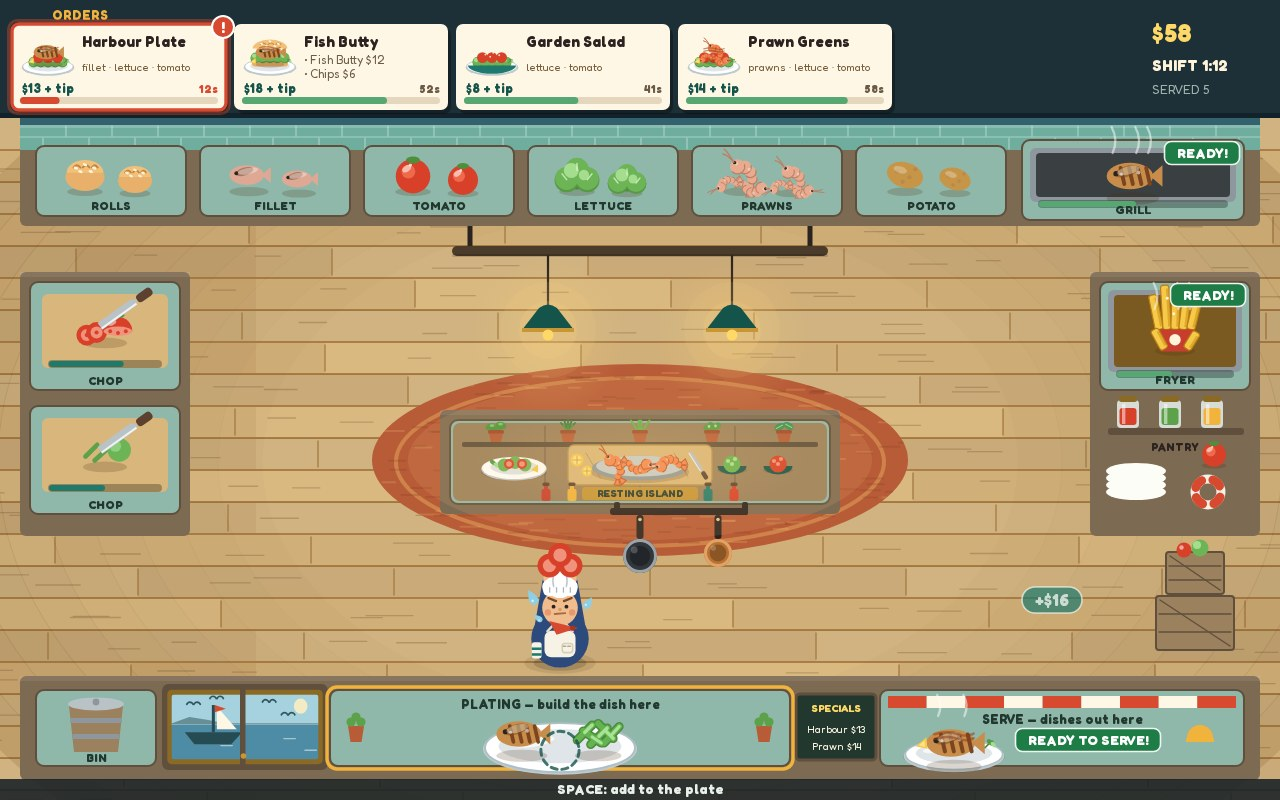
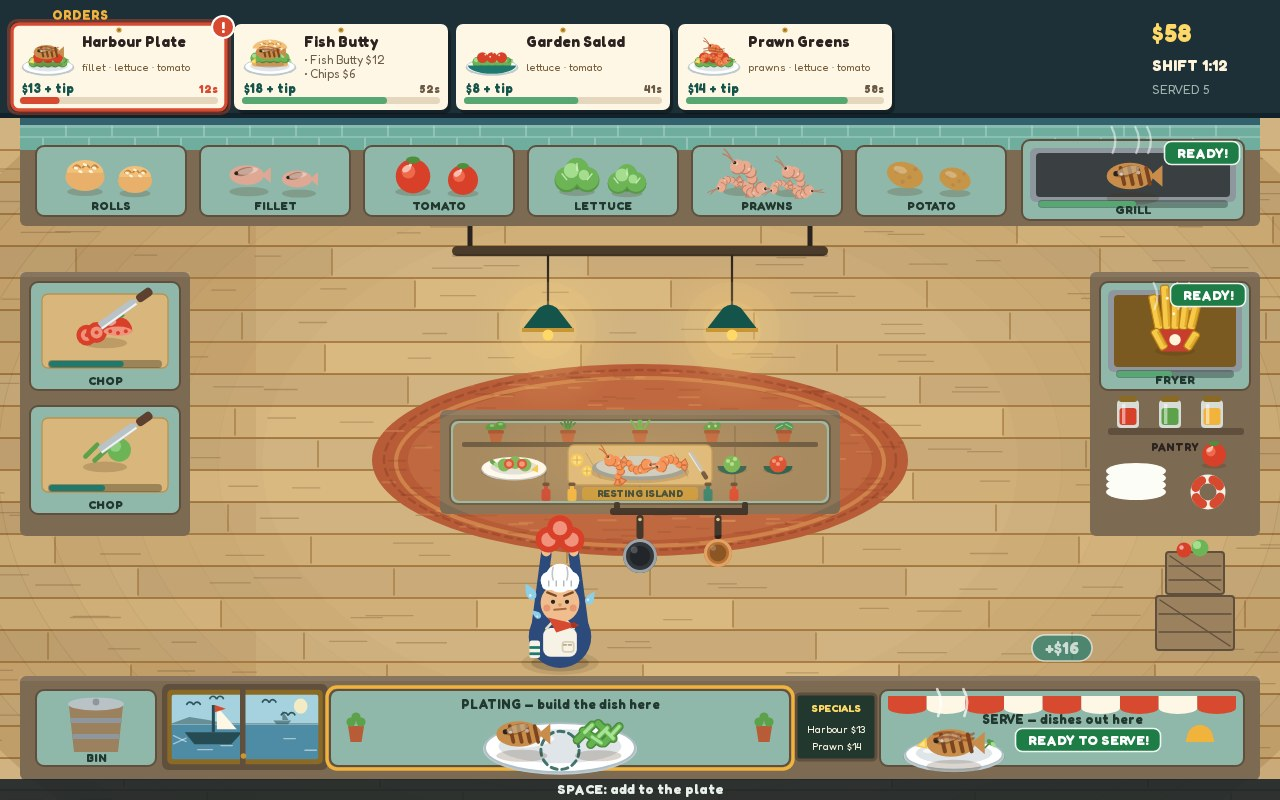
V18: raised carry, hanging sign, honest machine clocks
Fixes (AUDIT-V18): carried ingredients ride at -74 with the arms
risen to meet them, dishes keep their tray anchors (W1); the title
band hangs as an inset brass-bordered sign (W2); the end work strip
aligns with its panel stack (W3); pass steam wears its own stronger
literal (W4); the cover popup rests over the serve window (W5);
the chef steps up to 1.25 scale (W6); fryer batons warm at
half-cook (W7); machine bars redden in the burn window's final
stretch - bar is the clock, badge is the state (W8); chop boards
carry the prep board's edge (W9); the spread's dashed ring is
drawn under the food (W10).
Beauty: ticket pins (B3), awning scallops (B4), rug stitch (B5),
boat wake (B1), a far boat on the horizon (B2).
Battery 297/297, probe 14/14, dossier byte-identical x2.

Changed region(s): [[0.4062, 0.6562, 0.4688, 0.8438], [0.7812, 0.7188, 0.875, 0.8438], [0.6875, 0.875, 0.9688, 0.9062]]

diff --git a/game/src/render.js b/game/src/render.js
@@ -503,8 +503,10 @@ function drawPlateSpread(ctx, items, x, y, s) {
   const slots = items.length >= 3 ? [[-29, 1], [0, -6], [29, 1]]
     : items.length === 2 ? [[-28, 0], [28, 0]]
     : [[-16, 0]];
-  items.forEach((item, i) => drawItem(ctx, item, slots[i][0], slots[i][1], 44));
   if (items.length < 3) {
+    // The dashed ring marks the empty place, so it is drawn on the
+    // plate, under the food: drawn after the items, its arc struck
+    // through the fillet's tail on the cover (AUDIT-V18 W10).
     const gap = items.length === 2 ? [0, 12] : [26, 1];
     ctx.strokeStyle = 'rgba(20,84,75,0.8)';
     ctx.lineWidth = 2.2;
@@ -512,6 +514,7 @@ function drawPlateSpread(ctx, items, x, y, s) {
     ctx.beginPath(); ctx.arc(gap[0], gap[1], 14, 0, Math.PI * 2); ctx.stroke();
     ctx.setLineDash([]);
   }
+  items.forEach((item, i) => drawItem(ctx, item, slots[i][0], slots[i][1], 44));
   ctx.restore();
 }
 
@@ -663,7 +666,7 @@ function drawMidChop(ctx, item, chops, x, y, s) {
  * a deep, saturated oil bath, so the fryer at work reads as frying, not as a
  * letter — and not, at the sheet's size, as a row of pale candles.
  */
-function drawFryerCooking(ctx, cx, cy) {
+function drawFryerCooking(ctx, cx, cy, warm) {
   const oilY = cy + 13;
   // The batons, back row first: varied heights and leans, hash-placed so the
   // arrangement never moves between frames.
@@ -683,7 +686,14 @@ function drawFryerCooking(ctx, cx, cy) {
     ctx.restore();
   };
   const sticks = [[-40, 30, -0.16], [-27, 38, -0.06], [-13, 33, 0.08], [1, 41, -0.02], [15, 35, 0.12], [28, 39, 0.05], [41, 29, 0.17]];
-  for (const [ox, h, rot] of sticks) baton(ox, h, rot, '#f0cd78', '#d9ae4e', '#bd9440');
+  // Half-cooked, the batons warm one step toward the finished chips'
+  // gold — the food itself says time is passing, not only the bar
+  // under it (AUDIT-V18 W7). The finished carton is still a step
+  // beyond: this is a midpoint, not the finish.
+  for (const [ox, h, rot] of sticks) {
+    if (warm) baton(ox, h, rot, '#f3c95f', '#dbab42', '#b98f36');
+    else baton(ox, h, rot, '#f0cd78', '#d9ae4e', '#bd9440');
+  }
   // The oil itself, drawn over the batons' feet: a deep, hot gold bath with a
   // brighter, broken surface — dark enough, against the fryer's panel, that
   // the pale batons read as food in oil and not as sticks in a void.
@@ -750,13 +760,20 @@ function drawMachine(ctx, state, station, machine) {
     // In the fryer, raw cut potato gets its own cooking scene (batons in
     // bubbling oil); on the grill, prawns get their spaced row; everywhere
     // else the item itself is the picture.
-    if (kind === 'fryer' && machine.t < cookAt) drawFryerCooking(ctx, cx, cy);
+    if (kind === 'fryer' && machine.t < cookAt) drawFryerCooking(ctx, cx, cy, machine.t >= cookAt / 2);
     else if (kind === 'grill' && shown.startsWith('prawns')) drawGrillPrawns(ctx, shown, cx, cy);
     // The grill's single item steps up a size: at 54 its body spanned
     // ~51 px of a 174 px-wide dark panel and read as a small dark mark
     // at the cover's size; the prawns already span the grill in a row.
     else drawItem(ctx, shown, cx, cy - 4, kind === 'grill' ? 62 : 52);
-    const color = machine.t >= burnAt ? COLORS.red : machine.t >= cookAt ? COLORS.timerGood : COLORS.mustard;
+    // The bar is the clock, the badge below is the food's state: the bar
+    // fills toward the burn point, and its final stretch turns red —
+    // "nearly out of time", the same language the tickets' draining
+    // bars speak — while the badge stays READY! green until BURNT!
+    // replaces it. At its old colours the bar sat green at 94% of the
+    // burn window, 0.6 s from burnt (AUDIT-V18 W8).
+    const color = machine.t >= burnAt || machine.t / burnAt >= 0.85 ? COLORS.red
+      : machine.t >= cookAt ? COLORS.timerGood : COLORS.mustard;
     drawProgress(ctx, station.x + 16, station.y + station.h - 20, station.w - 32, machine.t / burnAt, color);
     // Steam wisps, swaying with the clock so the frame feels alive — three of
     // them, tall enough to read above both machines at contact-sheet size.
@@ -868,6 +885,15 @@ function drawKitchen(ctx, state) {
     ctx.beginPath(); ctx.moveTo(wx, wy); ctx.lineTo(wx + 11 + hash2(i, 41) * 10, wy); ctx.stroke();
   }
   ctx.restore();
+  // The mat's stitched border: a dashed ring just inside the rim, in
+  // the dark weave tone — a mat's edge finished the way the apron's
+  // pocket is stitched (AUDIT-V18 B5). Dashes, dark, at the rim: it
+  // is a stitch line, not a third ring.
+  ctx.strokeStyle = 'rgba(122,52,28,0.35)';
+  ctx.lineWidth = 2.5;
+  ctx.setLineDash([7, 6]);
+  ctx.beginPath(); ctx.ellipse(640, 460, 256, 90, 0, 0, Math.PI * 2); ctx.stroke();
+  ctx.setLineDash([]);
   // Counters.
   for (const solid of SOLIDS) {
     ctx.fillStyle = COLORS.counter;
@@ -952,6 +978,14 @@ function drawKitchen(ctx, state) {
   ctx.strokeStyle = 'rgba(255,255,255,0.4)';
   ctx.lineWidth = 1;
   ctx.beginPath(); ctx.moveTo(179, 724.6); ctx.lineTo(319, 724.6); ctx.stroke();
+  // A second boat, far away on the horizon in the right pane: a low
+  // hull and one small sail in the headland's own tone — the depth's
+  // third layer, traffic on the horizon (AUDIT-V18 B2).
+  ctx.fillStyle = 'rgba(39,75,82,0.55)';
+  ctx.beginPath();
+  ctx.moveTo(276, 721.5); ctx.lineTo(293, 721.5); ctx.lineTo(290, 724.6); ctx.lineTo(279, 724.6);
+  ctx.closePath(); ctx.fill();
+  ctx.beginPath(); ctx.moveTo(284.5, 713); ctx.lineTo(284.5, 721); ctx.lineTo(290.5, 721); ctx.closePath(); ctx.fill();
   ctx.strokeStyle = 'rgba(255,255,255,0.5)';
   ctx.lineWidth = 1.2;
   for (const [wx, wy] of [[196, 734], [226, 743], [286, 737], [306, 747]]) {
@@ -984,6 +1018,15 @@ function drawKitchen(ctx, state) {
   ctx.fillStyle = COLORS.red;
   ctx.beginPath(); ctx.moveTo(220, 712); ctx.lineTo(228, 714.4); ctx.lineTo(220, 716.8); ctx.closePath(); ctx.fill();
   ctx.restore();
+  // The boat's wake: two short strokes fanning from the stern and a
+  // shimmer line under the hull — the harbour's one moving thing,
+  // moving (AUDIT-V18 B1). In window space: the hull's stern sits at
+  // ≈ (192, 738) after its 1.3 growth about (219, 725).
+  ctx.strokeStyle = 'rgba(255,255,255,0.5)';
+  ctx.lineWidth = 1.2;
+  ctx.beginPath(); ctx.moveTo(193, 736.5); ctx.lineTo(181, 741.5); ctx.stroke();
+  ctx.beginPath(); ctx.moveTo(193, 739.5); ctx.lineTo(181, 734.5); ctx.stroke();
+  ctx.beginPath(); ctx.moveTo(204, 746.5); ctx.lineTo(218, 746.5); ctx.stroke();
   // Gulls: three small double-arcs over the water, and one smaller,
   // farther pair toward the sun — the sky has depth like the sea does.
   ctx.strokeStyle = '#33555e';
@@ -1310,6 +1353,13 @@ function drawKitchen(ctx, state) {
       const board = state.boards.find((b) => b.station === station);
       ctx.fillStyle = '#d9b77c';
       rr(ctx, station.x + 12, station.y + 12, station.w - 24, station.h - 34, 6); ctx.fill();
+      // The board's edge, in the island prep board's own stroke: every
+      // other cutting surface in the room carries one, and without it
+      // the pale board read as a sheet of paper laid on the counter
+      // (AUDIT-V18 W9).
+      ctx.strokeStyle = '#b8934f';
+      ctx.lineWidth = 1.3;
+      rr(ctx, station.x + 12, station.y + 12, station.w - 24, station.h - 34, 6); ctx.stroke();
       if (board.item) {
         const need = { tomato: 3, lettuce: 2, potato: 3 }[board.item];
         if (need && board.chops >= need) {
@@ -1383,6 +1433,17 @@ function drawKitchen(ctx, state) {
         ctx.fillStyle = i % 2 ? '#fff7e6' : COLORS.red;
         ctx.fillRect(station.x + 8 + i * ((station.w - 16) / 9), station.y + 6, (station.w - 16) / 9, 12);
       }
+      // A scalloped hem along the awning's bottom edge, one shallow
+      // half-ellipse per stripe in the stripe's own colour — the
+      // harbour-café finish the stripes promised (AUDIT-V18 B4).
+      // Shallow (6 deep) so the hem stays clear of the label's row.
+      for (let i = 0; i < 9; i++) {
+        const sw = (station.w - 16) / 9;
+        ctx.fillStyle = i % 2 ? '#fff7e6' : COLORS.red;
+        ctx.beginPath();
+        ctx.ellipse(station.x + 8 + i * sw + sw / 2, station.y + 18, sw / 2, 6, 0, 0, Math.PI);
+        ctx.fill();
+      }
       text(ctx, 'SERVE — dishes out here', cx, station.y + 30, 13, '#22382e');
       if (state.passDish) {
         // The pass moment, drawn at the plating counter's presence: a finished
@@ -1400,16 +1461,18 @@ function drawKitchen(ctx, state) {
         // Steam over the pass: the machines steam and the sheet's
         // "ready to serve" moment sat cold. Two wisps in the machines'
         // own language rise off the finished dish, swaying with the
-        // clock like theirs do.
-        ctx.strokeStyle = 'rgba(255,255,255,0.5)';
-        ctx.lineWidth = 2.3;
+        // clock like theirs do. At the machines' own strength they
+        // vanished over the serve counter's pale glass, though — the
+        // pass wears a stronger literal of its own (AUDIT-V18 W4).
+        ctx.strokeStyle = 'rgba(255,255,255,0.72)';
+        ctx.lineWidth = 2.6;
         ctx.lineCap = 'round';
         for (const off of [-13, 13]) {
           const sx = station.x + (friesPass ? 58 : 74) + off + Math.sin(state.time * 2.2 + off * 1.7) * 3;
           const sy = station.y + (friesPass ? 30 : 26);
           ctx.beginPath();
           ctx.moveTo(sx, sy);
-          ctx.quadraticCurveTo(sx + 5, sy - 11, sx - 1, sy - 21);
+          ctx.quadraticCurveTo(sx + 6, sy - 15, sx - 1, sy - 27);
           ctx.stroke();
         }
         drawBadge(ctx, station.x + 208, station.y + 50, 'READY TO SERVE!', '#1e7d46');
@@ -1499,9 +1562,12 @@ function drawChef(ctx, state) {
   // cook is its only character — at his old size he read as a token on the
   // floor instead of the person working it. The scale pivots on his feet,
   // so he grows upward from where he stands; nothing mechanical reads it.
+  // V18 steps him up once more (1.15 → 1.25): at the judge's size his
+  // face is ~11 px and the strain read still rests on the red ticket —
+  // presence is the step the detail pass left (AUDIT-V18 W6).
   ctx.save();
   ctx.translate(chef.x, chef.y + 27);
-  ctx.scale(1.15, 1.15);
+  ctx.scale(1.25, 1.25);
   ctx.translate(-chef.x, -(chef.y + 27));
   // The cook's face answers the pressure on the board: brows down, mouth
   // flat, sweat flying — whenever a ticket is dying or the board is full.
@@ -1519,6 +1585,14 @@ function drawChef(ctx, state) {
   // carries — the hands visibly hold it — or resting at his sides. The
   // old bare skin strokes vanished against the floor at judge size,
   // and a carried dish floated over the toque, held by nothing.
+  // A dish rides at tray height, hands under its rim; an ingredient
+  // has no plate under it, so it rides higher — at the old shared
+  // anchor an ingredient's lowest pieces lay inside the toque dome's
+  // span and read as worn on the hat (tomato slices as red discs,
+  // AUDIT-V18 W1) — and the arms and hands rise to meet the ride.
+  const carryDish = !!chef.carry && !!DISHES[chef.carry];
+  const armY = carryDish ? -44 : -60;
+  const handY = carryDish ? -46 : -62;
   ctx.lineCap = 'round';
   for (const side of [-1, 1]) {
     ctx.strokeStyle = '#2c4a7c';
@@ -1526,7 +1600,7 @@ function drawChef(ctx, state) {
     ctx.beginPath();
     if (chef.carry) {
       ctx.moveTo(x + side * 20, y + 8);
-      ctx.lineTo(x + side * 11, y - 44);
+      ctx.lineTo(x + side * 11, y + armY);
     } else {
       ctx.moveTo(x + side * 23, y + 2);
       ctx.lineTo(x + side * 27, y + 15);
@@ -1534,7 +1608,7 @@ function drawChef(ctx, state) {
     ctx.stroke();
     ctx.fillStyle = '#f0bd8f';
     ctx.beginPath();
-    ctx.arc(x + side * (chef.carry ? 11 : 27), y + (chef.carry ? -46 : 17), 3.7, 0, Math.PI * 2);
+    ctx.arc(x + side * (chef.carry ? 11 : 27), y + (chef.carry ? handY : 17), 3.7, 0, Math.PI * 2);
     ctx.fill();
   }
   // Apron body — harbour indigo, a cream apron front with a pocket.
@@ -1679,11 +1753,13 @@ function drawChef(ctx, state) {
   ctx.fillStyle = COLORS.redDark;
   ctx.beginPath(); ctx.arc(x + chef.face * 11, y - 3.3, 2.3, 0, Math.PI * 2); ctx.fill();
   // Whatever the chef carries rides overhead, both hands up — carried food
-  // casts no contact shadow; it is in the air, over his toque.
+  // casts no contact shadow; it is in the air, over his toque. A dish
+  // rides at −62 as a tray; an ingredient rides at −74, clear of the
+  // dome (W1) — the hands above already rose to meet it.
   if (chef.carry) {
     const dish = DISHES[chef.carry];
     if (dish) drawDish(ctx, chef.carry, x, y - 62, 66, false);
-    else drawItem(ctx, chef.carry, x, y - 60, 46, false);
+    else drawItem(ctx, chef.carry, x, y - 74, 46, false);
   }
   ctx.restore();
 }
@@ -1708,6 +1784,14 @@ function drawBoard(ctx, state) {
     rr(ctx, x + 3, y + 4, cardW, h, 7); ctx.fill();
     ctx.fillStyle = COLORS.paper;
     rr(ctx, x, y, cardW, h, 7); ctx.fill();
+    // The pin that holds the ticket: one brass dot through the paper's
+    // top edge — the shadows made the cards pinned paper; this is what
+    // pins them (AUDIT-V18 B3). It sits clear of the icon (x + 10..62)
+    // and the title (from x + 70) alike.
+    ctx.fillStyle = '#c99635';
+    ctx.beginPath(); ctx.arc(x + cardW / 2, y + 6, 2.6, 0, Math.PI * 2); ctx.fill();
+    ctx.fillStyle = '#8a6a24';
+    ctx.beginPath(); ctx.arc(x + cardW / 2, y + 6, 1.1, 0, Math.PI * 2); ctx.fill();
     if (frac < 0.25) {
       // The red zone, drawn to shout in a still frame: a soft alarm halo
       // outside the card and a hard red border on it.
@@ -1856,9 +1940,15 @@ function drawOverlays(ctx, state) {
     // ≈ 175–179, a tomato's underside reaching ≈ 196): the red tomato
     // showed through "one harbour kitchen". So the block now sits on a
     // flat deep-teal band of its own — one calm field behind both
-    // lines, the room still visible above and below it.
+    // lines, the room still visible above and below it. The band's
+    // own hard full-width edges cut seams across the room, though,
+    // so it hangs as a sign now: inset, rounded, brass-bordered —
+    // furniture, not a seam (AUDIT-V18 W2).
     ctx.fillStyle = 'rgba(20,34,40,0.45)';
-    ctx.fillRect(0, 96, VIEW.width, 112);
+    rr(ctx, 140, 96, 1000, 112, 10); ctx.fill();
+    ctx.strokeStyle = 'rgba(201,150,53,0.8)';
+    ctx.lineWidth = 2;
+    rr(ctx, 140, 96, 1000, 112, 10); ctx.stroke();
     text(ctx, 'THE DAILY CATCH', cx, 140, 70, '#ffd968');
     text(ctx, 'one cook, one harbour kitchen, the whole lunch rush', cx, 184, 20, COLORS.cream, 'center', false);
     // The menu board: every dish the kitchen serves, what goes into it and what
@@ -1946,9 +2036,13 @@ function drawOverlays(ctx, state) {
     text(ctx, `KITCHEN GRADE: ${letter} — ${title}`, cx, 532, 22, COLORS.mustard);
     text(ctx, 'PRESS R TO WORK ANOTHER SHIFT', cx, 578, 17, '#7dff9a');
     // The shift in work, counted at the stations as it happened — the frame's
-    // lower third tells the same story in labour instead of money.
+    // lower third tells the same story in labour instead of money. The
+    // strip takes the panel stack's own geometry (345, 590 wide): at
+    // 700 wide from x 290 it jutted past both panels above it, and the
+    // stack read as two-and-a-half (AUDIT-V18 W3). Its line keeps its
+    // full labels at 16 px — measured, it fits the narrower panel.
     const stats = state.stats || { chops: 0, grills: 0, fries: 0, burns: 0 };
-    chalkPanel(ctx, 290, 606, 700, 64);
+    chalkPanel(ctx, 345, 606, 590, 64);
     text(ctx, 'FROM THE PASS — THE SHIFT IN WORK', cx, 625, 11, '#9fb4ac');
     text(ctx, `CHOPS ${stats.chops}      GRILLS FIRED ${stats.grills}      FRYERS DROPPED ${stats.fries}      BURNT ${stats.burns}`, cx, 650, 16, COLORS.cream);
   }

diff --git a/game/src/shots.js b/game/src/shots.js
@@ -63,7 +63,11 @@ function cover() {
   s.chef.x = 560;
   s.chef.y = 636;
   s.chef.carry = 'tomato_cut'; // the very piece the Harbour Plate is missing
-  s.popups = [{ x: 1052, y: 600, text: '+$16', color: '#1f7a6d', t: 0.4, life: 1.4 }];
+  // The serve popup rests just above the window that paid it, in its
+  // own early-rise zone: staged at (1052, 600) it floated over the
+  // empty right walkway, the one popup on the sheet with no visible
+  // cause (AUDIT-V18 W5).
+  s.popups = [{ x: 1062, y: 648, text: '+$16', color: '#1f7a6d', t: 0.4, life: 1.4 }];
   return s;
 }
 
